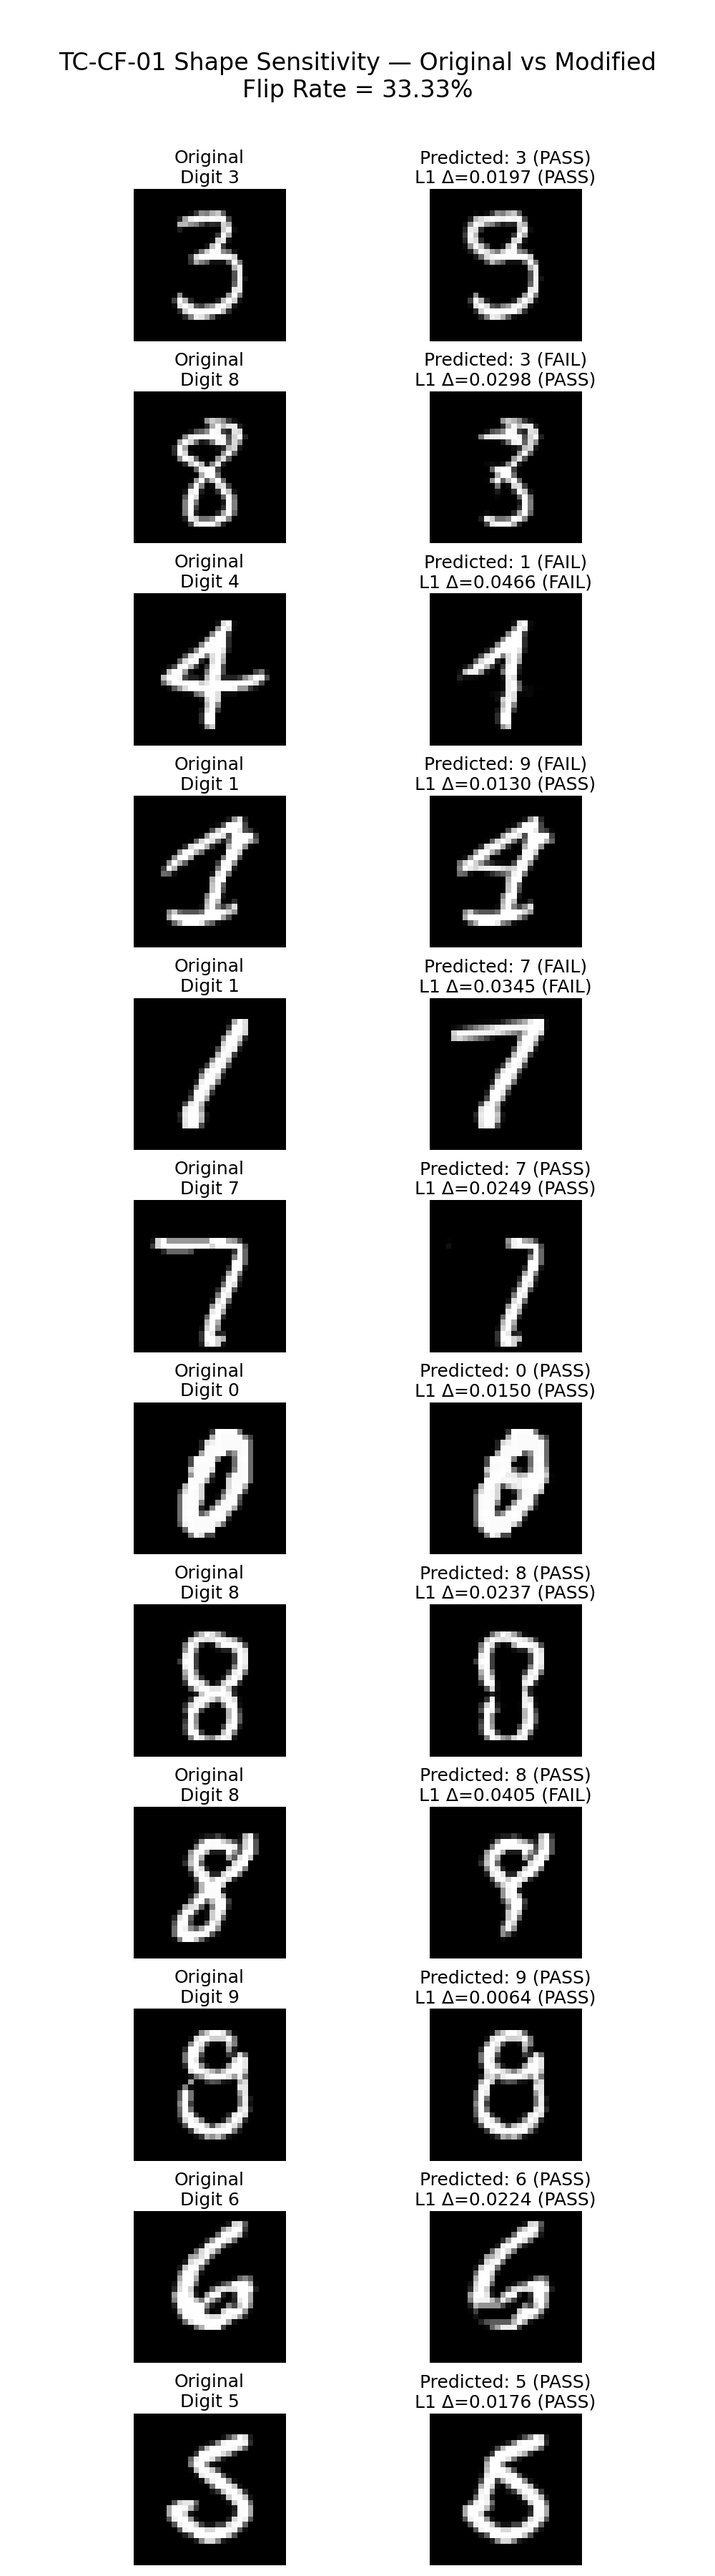
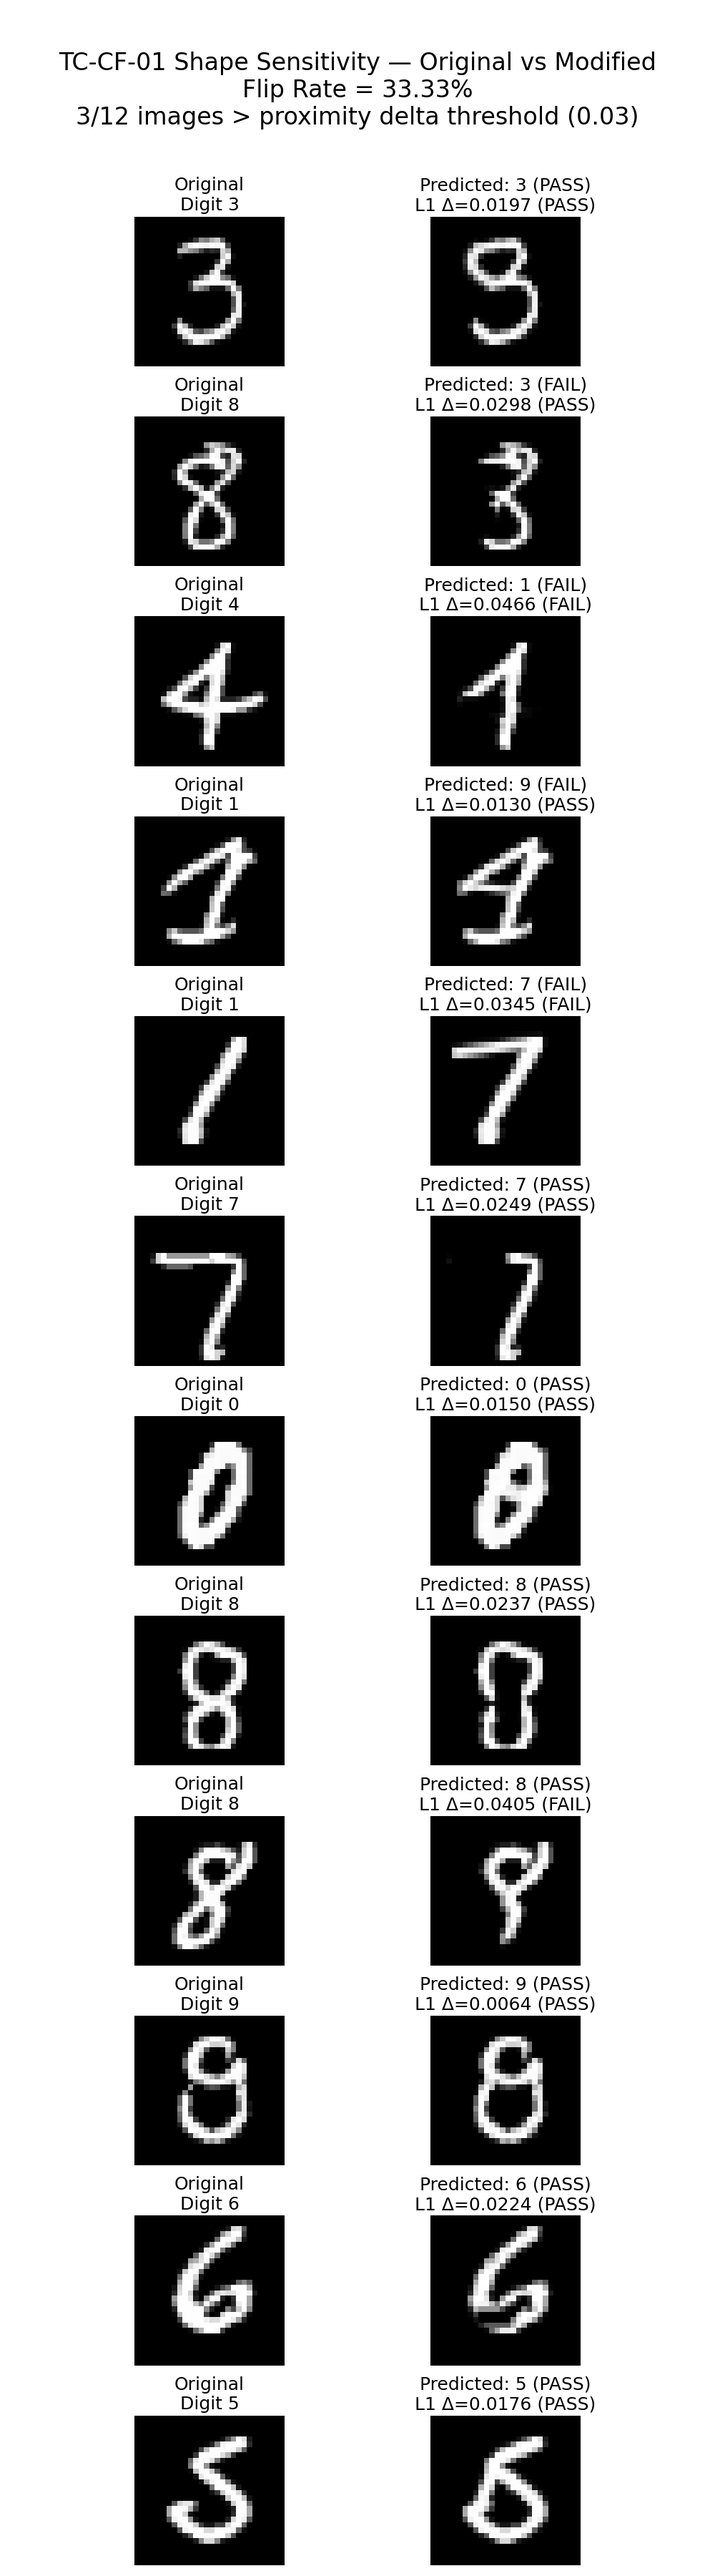
Added prox delta to tc-cf-01 output figure

Changed region(s): [[0.589, 0.0311, 0.837, 0.9956], [0.186, 0.0311, 0.403, 0.9956], [0.186, 0.7778, 0.217, 0.8089]]

diff --git a/Handwritten Digit Classification/test_files/test_cf.py b/Handwritten Digit Classification/test_files/test_cf.py
@@ -112,7 +112,6 @@ def test_tc_cf_01_shape_sensitivity():
 
         # Predict
         pred_label = predict_class(model, device, mod_img_arr)
-
         # Proximity delta (dict with L1 and L2)
         prox = compute_proximity_delta(orig_img_arr, mod_img_arr)
 
@@ -141,12 +140,16 @@ def test_tc_cf_01_shape_sensitivity():
         for res in results
     ])
 
+    # Count how many did not meet the proximity threshold
+    num_fail_prox = sum(1 for r in results if not r["pass_prox"])
+
     n = len(results)
     fig, axes = plt.subplots(nrows=n, ncols=2, figsize=(10, 3 * n))
 
     fig.suptitle(
         f"TC-CF-01 Shape Sensitivity — Original vs Modified\n"
-        f"Flip Rate = {flip_rate:.2f}%",
+        f"Flip Rate = {flip_rate:.2f}%\n"
+        f"{num_fail_prox}/{n} images > proximity delta threshold ({threshold})",
         fontsize=24,
         y=0.98
     )
@@ -266,6 +269,7 @@ def test_tc_cf_02_flip_image():
         f"Prediction changed after horizontal flip for {len(mismatches)} samples. "
         f"Examples (index, true, pred): {mismatches[:10]}"
     )
+
 
 # ----------------------------
 # TC-CF-03 Helper Function
